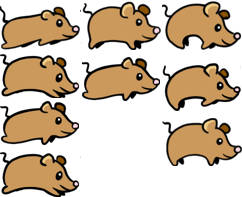
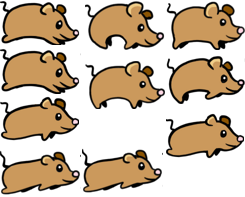
fixed atlas (hopefully)

diff --git a/src/scenes/Play.js b/src/scenes/Play.js
@@ -164,10 +164,10 @@ class Play extends Phaser.Scene {
             frames: this.anims.generateFrameNames('rat_atlas', {      
                 prefix: 'run',
                 start: 1,
-                end: 6,
+                end: 7,
                 suffix: ''
             }), 
-            frameRate: 30,
+            frameRate: 12,
             repeat: -1 
         });
 
@@ -179,7 +179,7 @@ class Play extends Phaser.Scene {
                 end: 3,
                 suffix: ''
             }), 
-            frameRate: 30,
+            frameRate: 12,
             repeat: -1 
         });
 
